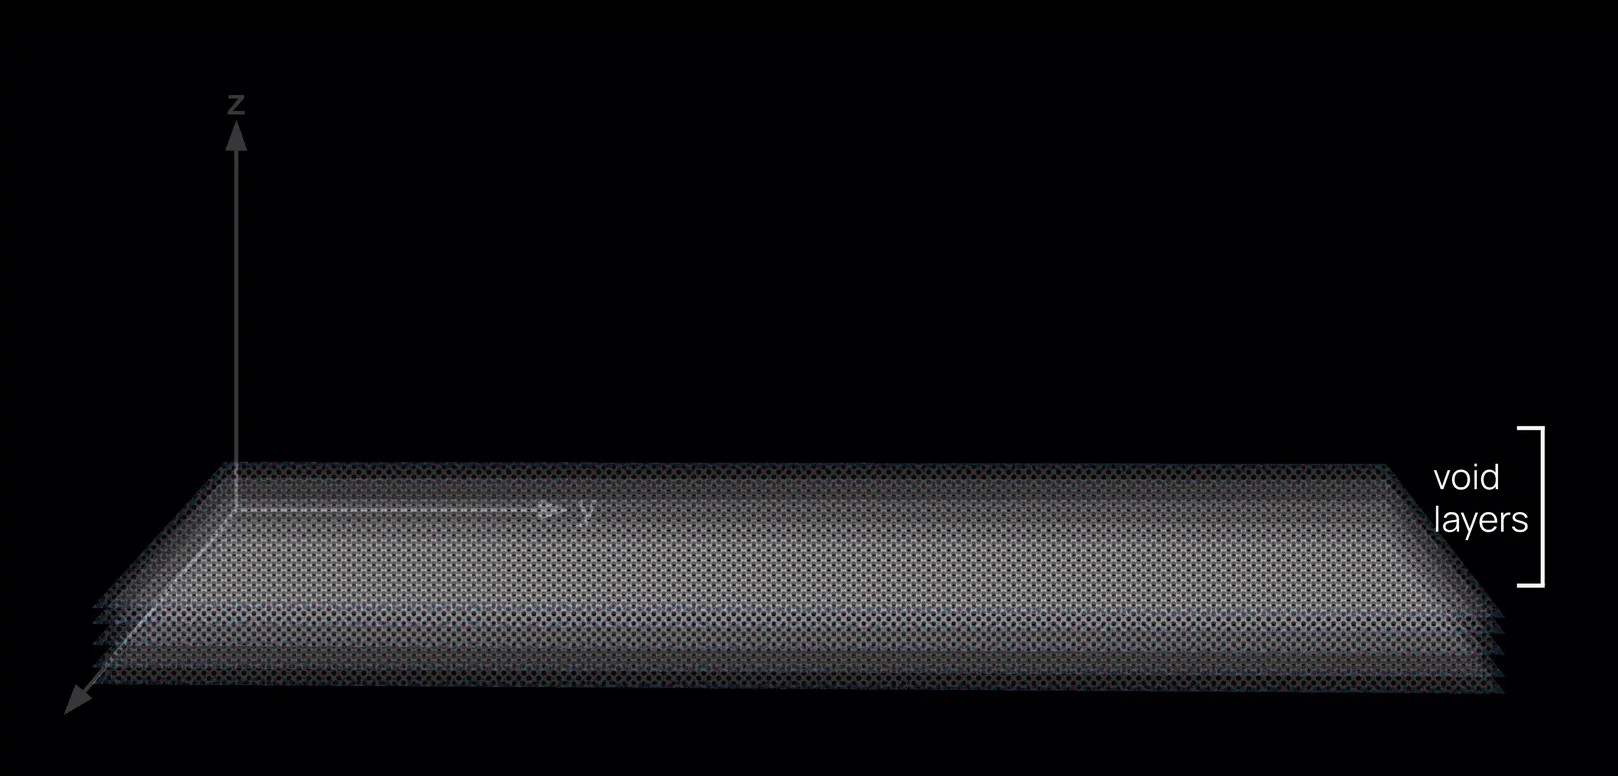
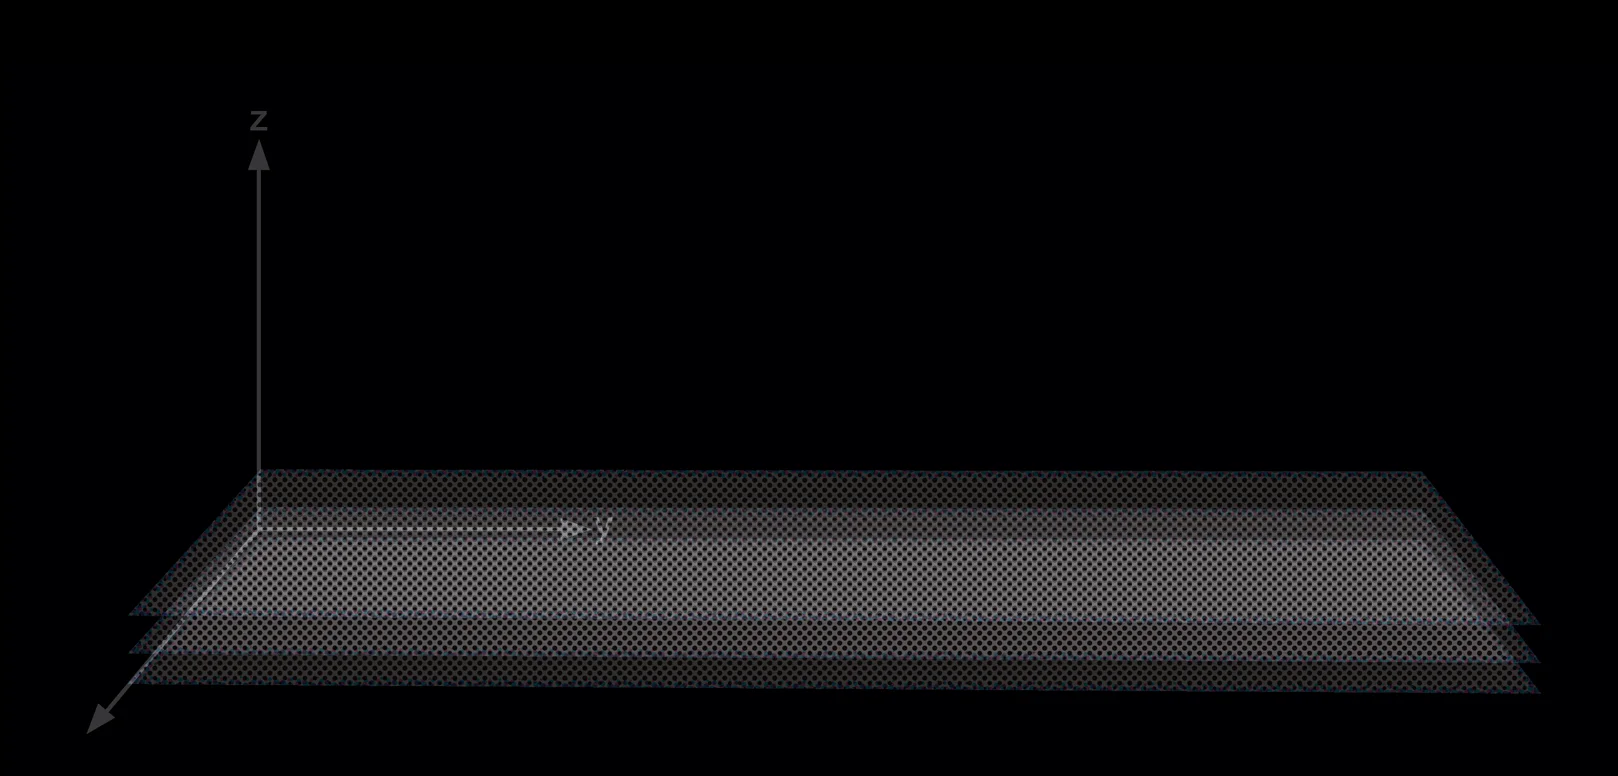
Build illustrations: right side uses the nine new prints
The right build now plays nine void prints (v1-v9), registered to the same
base line and centre as the left side.

Claude-Session: https://claude.ai/code/session_016Ctur3bA2Y4EbXLQxfP1SD

Changed region(s): [[0.0309, 0.5876, 0.958, 0.9278], [0.1236, 0.1237, 0.1854, 0.2474], [0.9271, 0.5258, 0.958, 0.5567]]

diff --git a/avoidant/index.html b/avoidant/index.html
@@ -331,7 +331,7 @@
     set.offCanvas = document.createElement('canvas');
     set.offCtx = set.offCanvas.getContext('2d');
     // the five reference prints of this side, from fewest to most layers
-    const names = set.void ? ['v1','v2','v3','v4','v5'] : ['nv1','nv2','nv3','nv4','nv5','nv6','nv7','nv8','nv9'];
+    const names = set.void ? ['v1','v2','v3','v4','v5','v6','v7','v8','v9'] : ['nv1','nv2','nv3','nv4','nv5','nv6','nv7','nv8','nv9'];
     set.imgs = names.map(function(n){
       const im = new Image();
       im.src = 'seq/' + n + '.webp';
